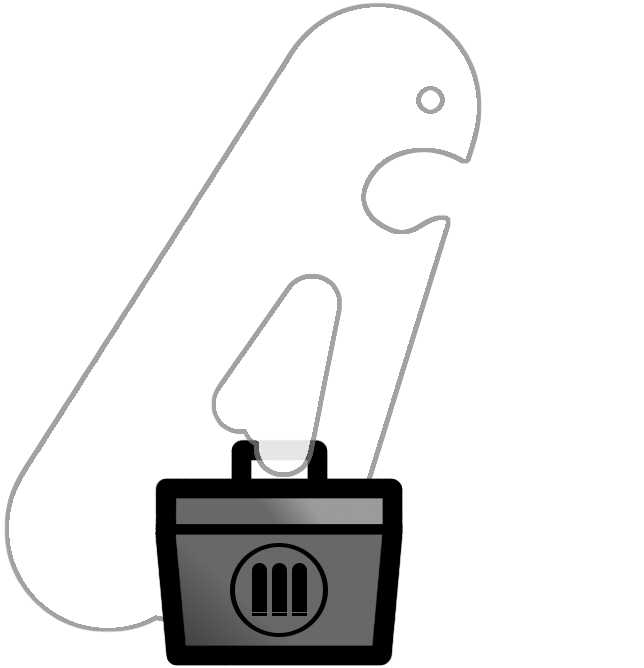
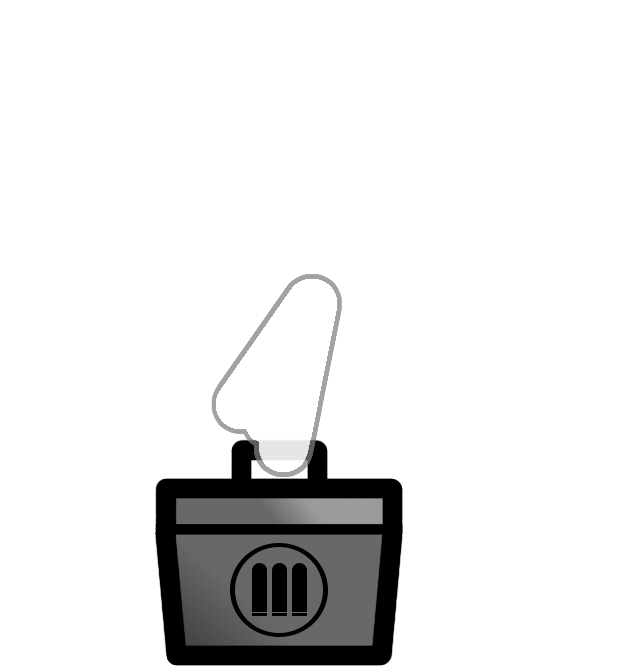
huzzah, shooting animation

diff --git a/game/static/js/entity.js b/game/static/js/entity.js
@@ -51,10 +51,14 @@ entitySetup = function() {
     snailGroup.scale(0.2);
 
     /* Code for the ghost symbol */
-    var ghostSymbol = new Symbol(new Raster('ghost'));
+    ghostSymbol = new Symbol(new Raster('ghost'));
     ghostSymbol.definition.scale(0.2);
+    ghostGunSymbol = new Symbol(new Raster('ghostgun'));
+    ghostGunSymbol.definition.scale(0.2);
     ghostBoxSymbol = new Symbol(new Raster('ghostbox'));
     ghostBoxSymbol.definition.scale(0.2);
+    flashSymbol = new Symbol(new Raster('muzzleflash'));
+    flashSymbol.definition.scale(0.2);
 
 
     /* First ammo box initialization. */
@@ -294,8 +298,16 @@ entitySetup = function() {
         this.hat = triangle(colour);
         this.hat.scale(0.6);
         this.raster = ghostSymbol.place(position);
+        this.gunArm = ghostGunSymbol.place(position);
+        this.boxArm = ghostBoxSymbol.place(position);
+        this.boxArm.visible = false;
+        this.flash = flashSymbol.place(position.add(new Point(80,0)));
+        this.flash.visible = false;
+        this.armGroup = new Group (this.gunArm, this.boxArm, this.flash);
         this.hat.position = position.add(new Point(11, -75));
-        this.item = new Group(this.raster, this.hat);
+        this.item = new Group(this.raster, this.armGroup, this.hat);
+        this.shootDirection = null;
+        this.shootCounter = 0;
         this.destination = position;
         this.room = room;
         this.holdingBox = false;
@@ -306,15 +318,18 @@ entitySetup = function() {
             if (this.holdingBox)
                 return;
 
-            var destroy = this.raster;
-            this.raster = ghostBoxSymbol.place(this.raster.position);
+            /*var destroy = this.raster;
+            this.raster = ghostSymbol.place(this.raster.position);
             this.item.addChild(this.raster);
-            destroy.remove();
+            destroy.remove();*/
+
+            this.gunArm.visible = false;
+            this.boxArm.visible = true;
 
             hatDestroy = this.hat;
             this.hat = this.hat.clone();
             this.item.addChild(this.hat);
-            hatDestroy.remove(); 
+            hatDestroy.remove();
 
             ammoBox.visible = false;
             this.holdingBox = true;
@@ -329,10 +344,13 @@ entitySetup = function() {
             if (!this.holdingBox)
                 return;
 
-            var destroy = this.raster;
+            /*var destroy = this.raster;
             this.raster = ghostSymbol.place(this.raster.position);
             this.item.addChild(this.raster);
-            destroy.remove();
+            destroy.remove();*/
+
+            this.gunArm.visible = true;
+            this.boxArm.visible = false;
 
             var hatDestroy = this.hat;
             this.hat = this.hat.clone();
@@ -347,7 +365,7 @@ entitySetup = function() {
 
         this.canDrop = function() {
             return this.holdingBox;
-        }   
+        }
 
         this.canBarricade = function(direction) {
             switch (direction) {
@@ -383,11 +401,49 @@ entitySetup = function() {
                     room = this.room.down;
                     break;
             }
+            if (direction == "Left" && this.facingRight) {
+                this.flip();
+                this.facingRight = false;
+            }
+            if (direction == "Right" && !this.facingRight) {
+                this.flip();
+                this.facingRight = true;
+            }
+            if (direction == "Up")
+                this.armGroup.rotate(-60);
+            if (direction == "Down")
+                this.armGroup.rotate(60);
+            
+            this.shootDirection = direction;
             room.snails[0].hurt(20);
         }
 
+        this.animateShoot = function() {
+            if (this.shootDirection == null)
+                return;
+            var countMod = this.shootCounter % 20;
+            if (countMod < 5)
+                this.flash.visible = true;
+            else
+                this.flash.visible = false;
+            if (countMod < 9)
+                this.armGroup.rotate(-1);
+            else if (countMod>10)
+                this.armGroup.rotate(1);
+            if (this.shootCounter == 120) {
+                if (this.shootDirection == "Up")
+                    this.armGroup.rotate(60);
+                if (this.shootDirection == "Down")
+                    this.armGroup.rotate(-60);
+                this.flash.visible = false;
+                this.shootCounter = 0;
+                this.shootDirection = null;
+            }
+            this.shootCounter++;
+        }
+
         this.canShoot = function(direction) {
-            if (this.ammo == 0)
+            if (this.ammo == 0 || this.holdingBox)
                 return false;
 
             switch(direction) {
@@ -407,6 +463,9 @@ entitySetup = function() {
         }
 
         this.canBreak = function(direction) {
+            if (this.holdingBox)
+                return false;
+
             switch(direction) {
                 case "Left":
                     return (this.room.left != null && this.room.leftBarricade.exists)

diff --git a/game/templates/game/game.html b/game/templates/game/game.html
@@ -20,6 +20,7 @@ $(function() {
     view.onFrame = function(event) {
         snailUpdate();
         player.move();
+        player.animateShoot();
     }
 
     scroll = function(movement) {
@@ -123,7 +124,9 @@ $(function() {
 
 <img src="/static/img/houseplan.jpg" class="sprite" id="house" />
 <img src="/static/img/snail_teeth.png" class="sprite" id="snail" />
-<img src="/static/img/ghost_gun.png" class="sprite" id="ghost" />
+<img src="/static/img/muzzle_flash.png" class="sprite" id="muzzleflash" />
+<img src="/static/img/ghost.png" class="sprite" id="ghost" />
+<img src="/static/img/ghost_gun.png" class="sprite" id="ghostgun" />
 <img src="/static/img/ghost_ammobox.png" class="sprite" id="ghostbox" />
 <img src="/static/img/ammobox.png" class="sprite" id="ammobox" />
 <img src="/static/img/barricade_stairs.png" class="sprite" id="stairBarricade" />
